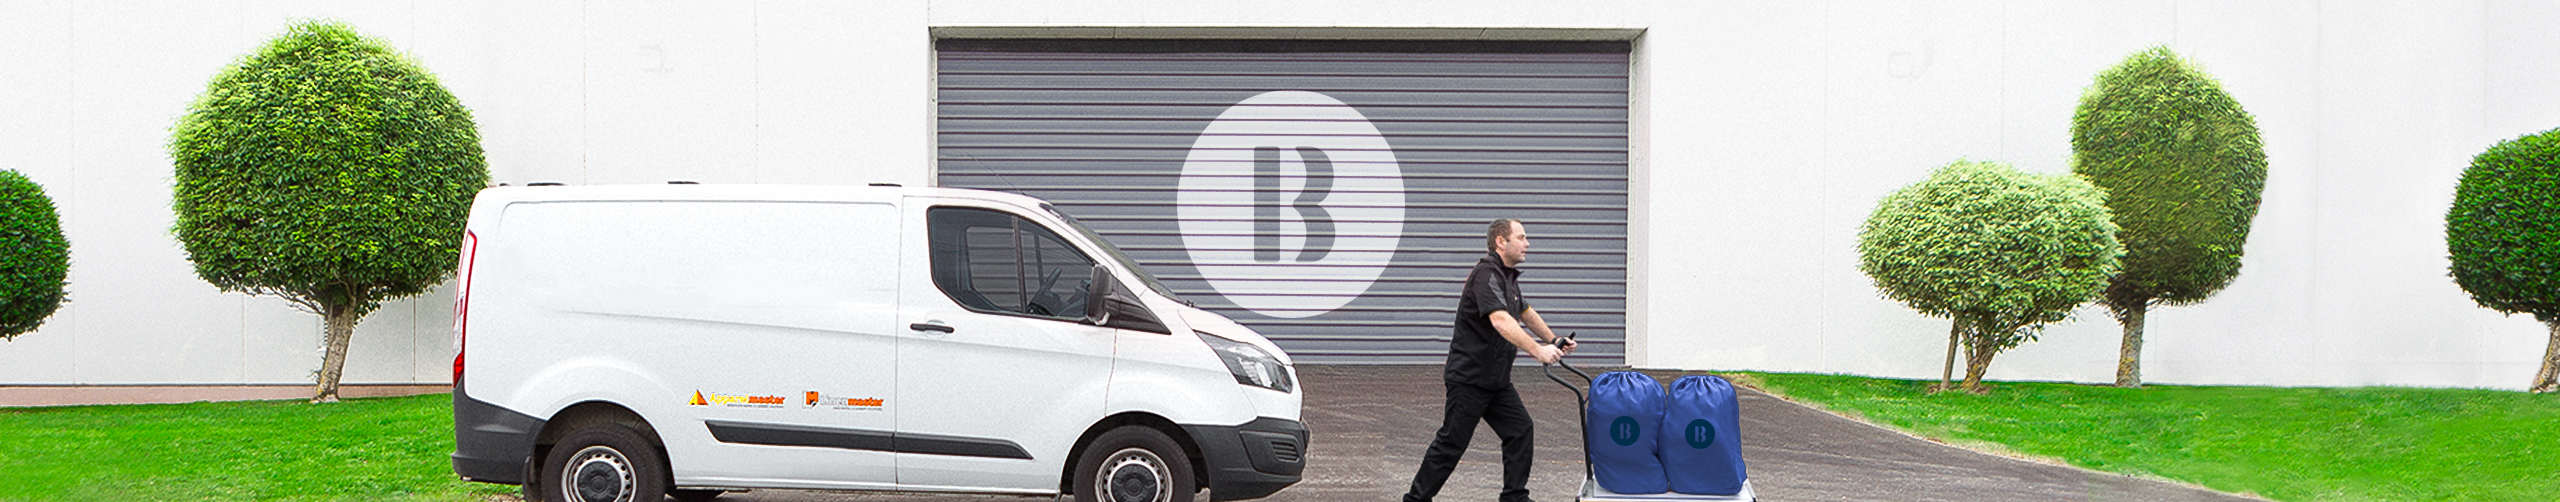
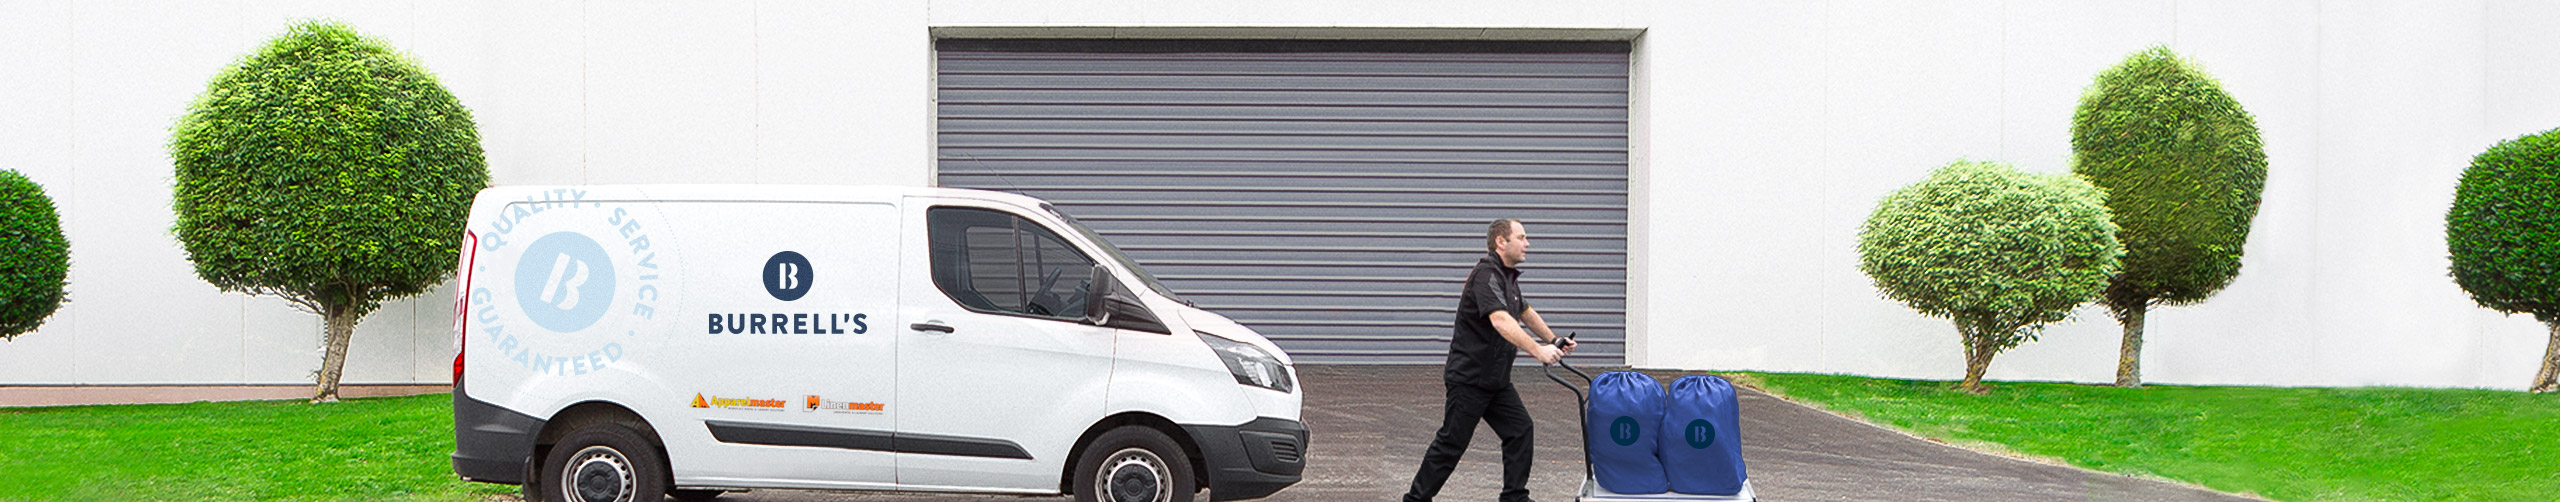
Addded new header images for about, repairs and supplies sections

diff --git a/css/style.css b/css/style.css
@@ -1550,12 +1550,12 @@ min-height: 640px;
 
 /*  REPAIRS  */
 
-.bg-header-repairs { background-image: url(bgs/header-repairs-1.jpg); }
+.bg-header-repairs { background-image: url(bgs/header-repairs-4.jpg); }
 
 
 /*  ABOUT PAGE  */
 
-.bg-header-about { background-image: url(bgs/header-about.jpg); }
+.bg-header-about { background-image: url(bgs/header-about-1.jpg); }
 .bg-meet-stuart { background-image: url(bgs/meet-stuart.jpg); }
 
 @media (min-width: 769px) and (max-width: 1200px) {
@@ -1667,7 +1667,7 @@ min-height: 400px;
 
 .bg-header-guarantee { background-image: url(bgs/header-guarantee.jpg); }
 .bg-guarantee-machines { background-image: url(bgs/guarantee-machines.jpg); }
-.bg-quote-pride { background-image: url(bgs/quote-pride.jpg); }
+.bg-quote-pride { background-image: url(bgs/quote-pride-3.jpg); }
 
 
 /* SERVICES CARDS ON SERVICES PAGES */
